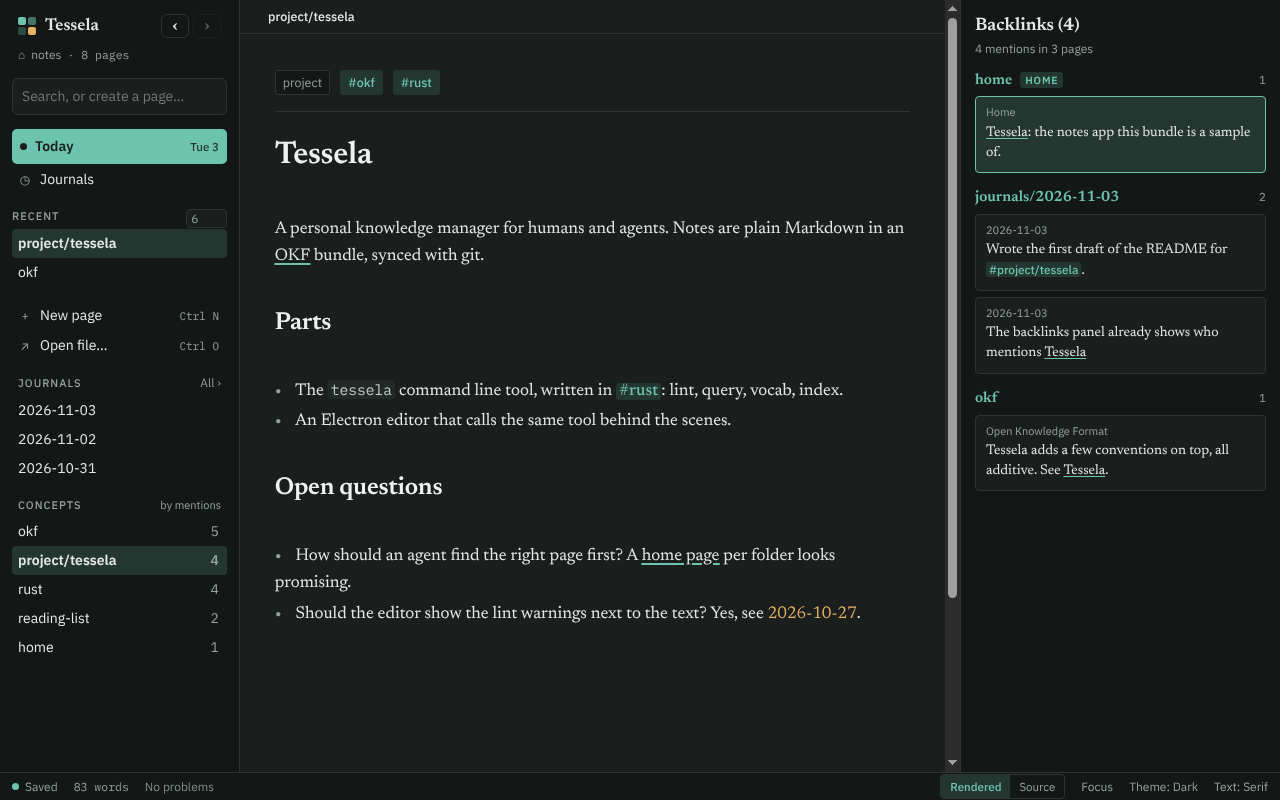
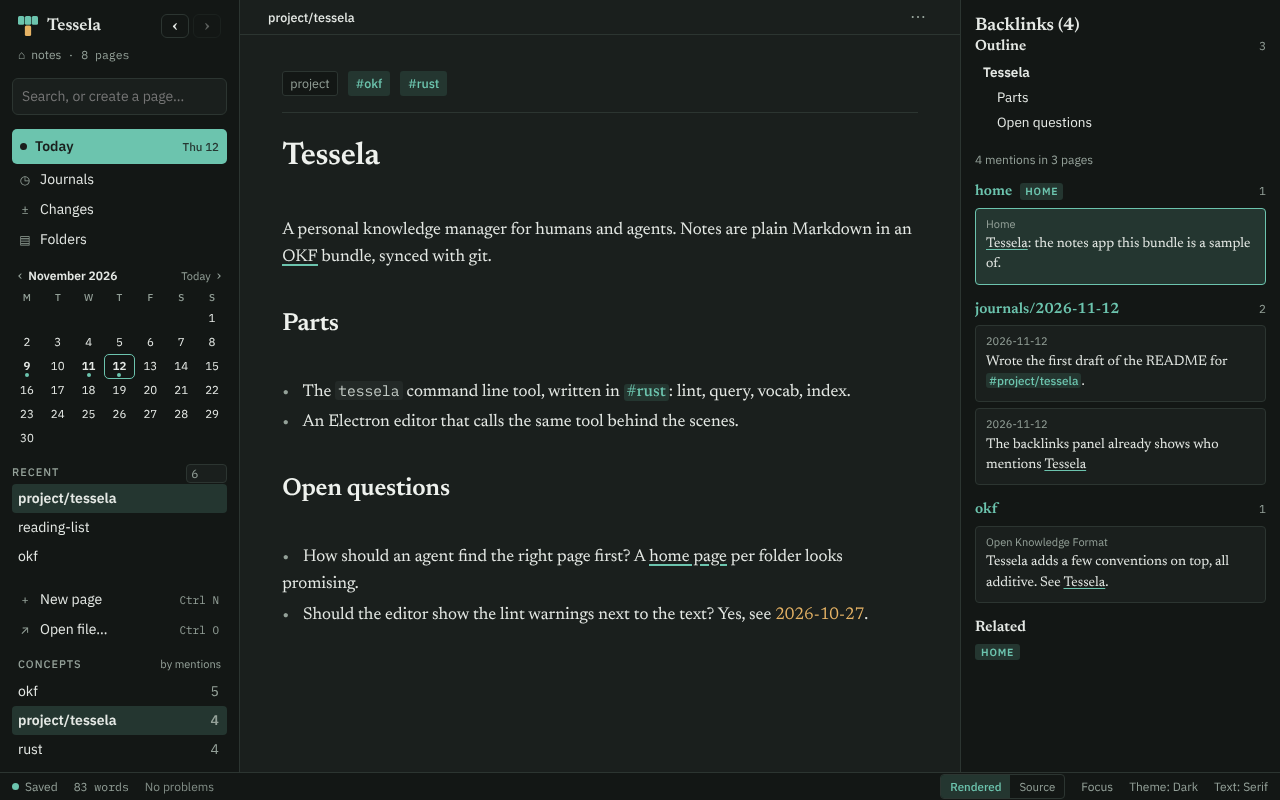
Restructure the README's Mods section and refresh the editor screenshots
The Mods section was one long block of paragraphs. It now has an overview table and one
short section per mod, with lists where a mod does several things. The screenshots are taken
again (the editor has changed since) and a new one shows a page drawn by mods.

Claude-Session: https://claude.ai/code/session_01Swrb3HATxjquiFBpQxaKuG

diff --git a/README.md b/README.md
@@ -184,12 +184,16 @@ again (`xvfb-run -a npm run screenshots` on a server).
 
 ### Mods
 
+![A page drawn with mods: a callout, a footnote, a formula and a live list](docs/screenshots/mods.png)
+
 The editor can be extended with mods: a folder `mods/NAME/` with a `main.js` in the config folder
 (`$TESSELA_CONFIG`, else the app's data folder, `~/.config/Tessela` on Linux). Mods are trusted
-code (your own or audited) and load before the first page opens; `--no-mods` starts without them,
-and one that throws is skipped and listed in the Mods panel ("Show the mods" in the palette, Ctrl+K),
-where each mod can also be switched off or on (kept in the config folder's `settings.json`). The whole
-API is in the [mod-writing skill](skills/tessela-mods/SKILL.md).
+code (your own or audited) and load before the first page opens.
+
+- `--no-mods` starts without them, and a mod that throws is skipped and listed in the Mods panel.
+- The Mods panel ("Show the mods" in the palette, Ctrl+K) can also switch each mod off or on; that is
+  kept in the config folder's `settings.json`.
+- The whole API is in the [mod-writing skill](skills/tessela-mods/SKILL.md).
 
 ```js
 // mods/stamp/main.js
@@ -222,56 +226,137 @@ ctx.slots.mount("sidebar").root                              // an element in th
 ctx.backlinks.add(async ({ path }) => ({ node, first: true, taken: [handle] }))  // a group in the backlinks of the open page
 ```
 
+#### The mods that come with the editor
+
 The app's own features are mods too (`editor/src/mods/NAME/main.ts`, built to `dist/mods`), and a mod
-of the same name in the config folder replaces them. `pages` renames, moves and deletes the open
-page ("Rename page…", "Move page…" and "Delete page…" in the palette and in the page's ⋯ menu), shows
-what will change first, and offers to rename the file when its title was edited.
-`fold` folds and zooms (Ctrl+Up and Ctrl+Down, Ctrl+Alt+Right and Left; see conventions §11): it keeps
-which blocks are folded in its settings, by page, and never in the notes. `live-lists` draws
-the ```` ```tessela ```` fences of the conventions (`tessela fence`) as rows under the fence, asks again when
-the notes change, and opens the page of a row when it is clicked; nothing it draws is written to the page.
-`unlinked` lists, under the backlinks, the places in other pages that name the open page in plain words
-(`tessela query --unlinked`), each with a Link button that writes the link through `tessela save`;
-it draws into `ctx.slots.mount("side-bottom")`, the element below the backlinks.
-`agenda` turns plain `- [ ]` items and the dates written in them into an agenda: a journal day lists the
-open tasks that name it in a "Due" group at the top of its backlinks (today also lists the overdue ones),
-ticking a task on its tile is written as a one-line patch through `tessela save --patch`, and a month
-strip in the sidebar marks the days that have a file and the days that are only mentioned.
-`outline` lists the headings of the open page as a group at the top of its backlinks (a click puts the cursor on
-one; it is drawn from the saved page, so it follows once the page is saved), adds "Go to heading" to the
-palette, and makes Alt+Up and Alt+Down on a heading line move its section (what is under it, down to the
-next heading of its level) past the neighbour of the same level, without moving it out of its parent.
-`search` replaces the search under the sidebar's search box (through `ctx.override.add("search", ...)`): words in
-any order, "quoted phrases", `#tag`, `type:`, `in:`, `from:`/`to:` and a bare `YYYY-MM-DD` become one `tessela query`,
-page titles and headings are searched with the text, the command is shown, and "Keep as live list" puts it in the
-open page as a ```` ```tessela ```` fence.
-`related` is a "Related" group in the right column, in place of a graph (from `tessela related`): the concepts
-mentioned together with the open page, most often first, each with its reason ("together in 7 blocks on 3 pages")
-and a click to open its page, and the home pages that lead to it as a trail, the root's first. Nothing is written.
-`properties` takes over the title and the row of properties at the top of a page (through
-`ctx.override.add("properties", { draw })`, which is handed the page's `props` and returns the element to show):
-a click on the type offers the types the notes use, on a tag the vocabulary (with Remove), "+ tag" adds one,
-"Change date" takes a date or a datetime with its offset (and the `/` menu's Today, Tomorrow, Yesterday and
-Now), and any other plain value is typed over. A change rewrites that one key of the front matter and keeps every
-other byte, in the quoting the value already had; it is saved through `tessela save --expect`, so a page that changed
-meanwhile is never overwritten. A key written across several lines, or with a comment, is left to "Edit properties".
-`changes` is the "Changes" row in the sidebar: what differs between the notes and git (the last commit, or
-any revision typed in, `ORIG_HEAD` for before the last pull), block by block, from `tessela changes`. Each
-change is kept (hidden, nothing written; the window remembers) or put back (the page is saved again without
-it through `tessela save`); a new page can be deleted and a deleted one written again. A mod can hand
-`ctx.editor.extend` a function instead of an extension, to be called for each editor with `{ path }`,
-the page that editor shows.
-`new-page` takes the place of the window's name box for New page (Ctrl+N, the sidebar button, the palette):
-it asks for a name and a type, the types being the bundle's `templates/NAME.md` with "Page" first, and
+of the same name in the config folder replaces them. None of them writes anything on its own: notes
+change only through `tessela save` and its relatives.
+
+| Mod          | What it does                                                                                       |
+| ------------ | -------------------------------------------------------------------------------------------------- |
+| `pages`      | Renames, moves and deletes the open page, after showing what will change.                          |
+| `fold`       | Folds and zooms blocks; the folds are kept in its settings, by page, never in the notes.            |
+| `live-lists` | Draws the `tessela` fences of the conventions as rows under the fence.                             |
+| `unlinked`   | Lists the places that name the open page in plain words, with a Link button.                       |
+| `agenda`     | Turns `- [ ]` items and the dates in them into a "Due" group and a month strip.                    |
+| `outline`    | Lists the headings of the open page and moves a section with Alt+Up and Alt+Down.                  |
+| `search`     | Replaces the sidebar search: words, phrases, `#tag`, `type:`, `in:`, `from:` and `to:`.             |
+| `related`    | A "Related" group: the concepts mentioned together with the open page, and the home pages' trail.  |
+| `properties` | Takes over the title and the row of properties at the top of a page.                               |
+| `changes`    | The "Changes" row: what differs between the notes and git, block by block.                         |
+| `new-page`   | Asks for a name and a type when you make a page, from the bundle's `templates/NAME.md`.             |
+| `gfm-extras` | Draws GitHub-flavored Markdown the editor did not: callouts, footnotes, math and Mermaid.          |
+| `peek`       | Shows what a link, a `#tag` or a date points to in the right column, without leaving the page.     |
+| `attach`     | Stores a file pasted or dropped into a page with `tessela attach` and links it at the cursor.      |
+| `folders`    | The "Folders" row: one folder at a time, with its `home.md`, sub-folders, pages and journal days.  |
+
+##### `pages`
+
+Renames, moves and deletes the open page ("Rename page…", "Move page…" and "Delete page…" in the
+palette and in the page's ⋯ menu), shows what will change first, and offers to rename the file when
+its title was edited.
+
+##### `fold`
+
+Folds and zooms (Ctrl+Up and Ctrl+Down, Ctrl+Alt+Right and Left; see conventions §11). It keeps which
+blocks are folded in its settings, by page, and never in the notes.
+
+##### `live-lists`
+
+Draws the ```` ```tessela ```` fences of the conventions (`tessela fence`) as rows under the fence, asks
+again when the notes change, and opens the page of a row when it is clicked. Nothing it draws is
+written to the page.
+
+##### `unlinked`
+
+Lists, under the backlinks, the places in other pages that name the open page in plain words
+(`tessela query --unlinked`), each with a Link button that writes the link through `tessela save`. It
+draws into `ctx.slots.mount("side-bottom")`, the element below the backlinks.
+
+##### `agenda`
+
+Turns plain `- [ ]` items and the dates written in them into an agenda:
+
+- A journal day lists the open tasks that name it in a "Due" group at the top of its backlinks (today
+  also lists the overdue ones).
+- Ticking a task on its tile is written as a one-line patch through `tessela save --patch`.
+- A month strip in the sidebar marks the days that have a file and the days that are only mentioned.
+
+##### `outline`
+
+- Lists the headings of the open page as a group at the top of its backlinks. A click puts the cursor
+  on one; it is drawn from the saved page, so it follows once the page is saved.
+- Adds "Go to heading" to the palette.
+- Alt+Up and Alt+Down on a heading line move its section (what is under it, down to the next heading
+  of its level) past the neighbour of the same level, without moving it out of its parent.
+
+##### `search`
+
+Replaces the search under the sidebar's search box (through `ctx.override.add("search", ...)`). Words
+in any order, "quoted phrases", `#tag`, `type:`, `in:`, `from:`/`to:` and a bare `YYYY-MM-DD` become
+one `tessela query`; page titles and headings are searched with the text, the command is shown, and
+"Keep as live list" puts it in the open page as a ```` ```tessela ```` fence.
+
+##### `related`
+
+A "Related" group in the right column, in place of a graph (from `tessela related`):
+
+- The concepts mentioned together with the open page, most often first, each with its reason
+  ("together in 7 blocks on 3 pages") and a click to open its page.
+- The home pages that lead to it, as a trail with the root's first.
+
+Nothing is written.
+
+##### `properties`
+
+Takes over the title and the row of properties at the top of a page (through
+`ctx.override.add("properties", { draw })`, which is handed the page's `props` and returns the
+element to show):
+
+- A click on the type offers the types the notes use, and on a tag the vocabulary (with Remove);
+  "+ tag" adds one.
+- "Change date" takes a date or a datetime with its offset (and the `/` menu's Today, Tomorrow,
+  Yesterday and Now); any other plain value is typed over.
+- A change rewrites that one key of the front matter and keeps every other byte, in the quoting the
+  value already had. It is saved through `tessela save --expect`, so a page that changed meanwhile is
+  never overwritten.
+- A key written across several lines, or with a comment, is left to "Edit properties".
+
+##### `changes`
+
+The "Changes" row in the sidebar: what differs between the notes and git (the last commit, or any
+revision typed in, `ORIG_HEAD` for before the last pull), block by block, from `tessela changes`.
+
+- Each change is kept (hidden, nothing written; the window remembers) or put back (the page is saved
+  again without it through `tessela save`).
+- A new page can be deleted and a deleted one written again.
+
+##### `new-page`
+
+Takes the place of the window's name box for New page (Ctrl+N, the sidebar button, the palette). It
+asks for a name and a type, the types being the bundle's `templates/NAME.md` with "Page" first, and
 makes the page with `tessela add NAME --type TYPE`. A mod's command with the id `new-page` replaces it.
-`gfm-extras` draws the GitHub-flavored Markdown the editor did not: `> [!NOTE]` (also TIP, IMPORTANT, WARNING,
-CAUTION) as a callout, footnotes (`[^1]` as its number, numbered by first use, with the note as its tooltip; a click goes to
-the definition and back), `$x$` inline math and `$$` blocks, and ```` ```math ```` and ```` ```mermaid ```` fences as
-formulas and diagrams under the source. Where the cursor is, the Markdown shows as written, and nothing it draws is written
-to the page, so the page reads the same on GitHub. KaTeX (as MathML, so no fonts) and Mermaid are loaded the first time a
-page has one. Its palette commands are "Copy link to this heading" (`[Text](/page.md#anchor)`, which the editor follows),
-"Copy as quote" (the selection, or the line, as a quote with a link to its page) and "Insert footnote"; the `/` menu has
-Callout, Math block and Diagram.
+
+##### `gfm-extras`
+
+Draws the GitHub-flavored Markdown the editor did not:
+
+- `> [!NOTE]` (also TIP, IMPORTANT, WARNING, CAUTION) as a callout.
+- Footnotes: `[^1]` as its number, numbered by first use, with the note as its tooltip; a click goes
+  to the definition and back.
+- `$x$` inline math and `$$` blocks, and ```` ```math ```` and ```` ```mermaid ```` fences as formulas
+  and diagrams under the source.
+
+Where the cursor is, the Markdown shows as written, and nothing it draws is written to the page, so the
+page reads the same on GitHub. KaTeX (as MathML, so no fonts) and Mermaid are loaded the first time a
+page has one. Its palette commands are "Copy link to this heading" (`[Text](/page.md#anchor)`, which
+the editor follows), "Copy as quote" (the selection, or the line, as a quote with a link to its page)
+and "Insert footnote"; the `/` menu has Callout, Math block and Diagram.
+
+A mod can hand `ctx.editor.extend` a function instead of an extension, to be called for each editor
+with `{ path }`, the page that editor shows.
+
+### Packaging the app
 
 To build an app that carries its own `tessela` binary:
 
